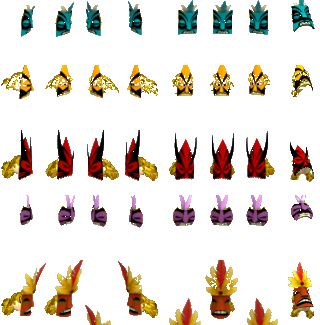
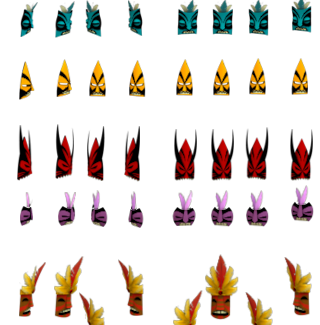
VV4 mask: clean headless atlas + per-mask draw-Y nudge (chief +7)
Rebuild atlas from clean headless strips (no head-subtraction hair residue); placement inherited from known-good positions via cross-correlation. Add live-tunable per-mask vertical nudge table in the world cave (chief +7px up) without re-cutting the atlas. Patch name/description now mention the Heathen Mask mod.

diff --git a/scripts/build_vv4_origins_feature.py b/scripts/build_vv4_origins_feature.py
@@ -208,6 +208,14 @@ MASK_W_A5 = 0x728FB4                 # arg5 = the resolved sprite frame (unused 
 MASK_W_A6 = 0x728FB8                 # arg6 = float (the head/blit SCALE; lift scales by it)
 MASK_W_A7 = 0x728FBC                 # arg7 = float
 MASK_W_SCRATCH = 0x728FC0            # fistp target for the scaled lift (< page end 0x729000)
+# Per-mask vertical nudge table (signed bytes, rows blue/orange/red/purple/chief =
+# mask value 1..5, indexed by mask-1). Added at draw time so a tall mask (chief)
+# whose face sits low in its uniform cell can be lifted without re-cutting the
+# atlas -- the whole-cell shift keeps feathers from clipping. Positive = UP.
+# Live-tunable: change the bytes + re-apply the patch, no atlas rebuild.
+# (Siblings VV1/VV2/VV3/VV5 all place final alignment in a draw-time nudge.)
+MASK_DY_TABLE = 0x728FC4             # 5 signed bytes at 0x728FC4..0x728FC8 (< 0x729000)
+MASK_DY_VALUES = (0, 0, 0, 0, 7)    # blue, orange, red, purple, chief (chief +7 up)
 
 # IDA Pro 9.4 decoded the four current-feature absolute operands that are not
 # owned by the generated payload/preflight helpers. They are explicit
@@ -372,17 +380,13 @@ def mask_world_cave() -> bytes:
     drawn). Preserves esi/edi/ebp/ebx (only eax/ecx/edx touched, all caller-saved
     across the original call)."""
     def src(post_orig: int) -> str:
-        # y = worldY - lift*scale, scale = the head's own blit float (arg6) so the
-        # mask rises/shrinks with children + carried villagers (VV2/VV5). FPU use
-        # is balanced (fild push / fistp pop) so the game's FPU stack is preserved.
-        y3 = (f"push dword ptr [{MASK_W_A3}]" if MASK_WORLD_LIFT == 0 else
-              f"push {MASK_WORLD_LIFT}\n"
-              f"            fild dword ptr [esp]\n"
-              f"            add esp, 4\n"
-              f"            fmul dword ptr [{MASK_W_A6}]\n"
-              f"            fistp dword ptr [{MASK_W_SCRATCH}]\n"
-              f"            mov ecx, dword ptr [{MASK_W_A3}]\n"
-              f"            sub ecx, dword ptr [{MASK_W_SCRATCH}]\n"
+        # y = worldY - MASK_DY[mask-1]. eax still holds mask-1 here (already pushed
+        # as arg4), so it indexes the signed per-mask nudge table; positive = UP.
+        # Unscaled (small nudge, keeps the cave inside the tight .shr tail budget);
+        # tune the bytes in MASK_DY_VALUES if a mask needs more/less.
+        y3 = (f"mov ecx, dword ptr [{MASK_W_A3}]\n"
+              f"            movsx eax, byte ptr [eax + {MASK_DY_TABLE}]\n"
+              f"            sub ecx, eax\n"
               f"            push ecx")
         return f"""
             mov dword ptr [{MASK_W_MGR}], ecx
@@ -1734,6 +1738,15 @@ def main() -> None:
     mask_world = mask_world_cave()
     patch(MASK_WORLD_FILE_OFFSET, b"\0" * len(mask_world), mask_world,
           "Heathen mask: WORLD cave -- wrap FUN_00467da0's post-head camera world-blit (0x44C790) and re-issue it with arg1=mask atlas + arg4=mask row + y-lift so the walking-village mask lands in the deferred composite")
+    # Initialise the per-mask vertical-nudge table (chief +7 up). Lives just past
+    # the cave + scratch in the .shr tail; assert the cave never reaches it.
+    _shr_delta = MASK_WORLD_VA - MASK_WORLD_FILE_OFFSET
+    _dy_file = MASK_DY_TABLE - _shr_delta
+    assert MASK_WORLD_FILE_OFFSET + len(mask_world) <= _dy_file, \
+        "world cave grew into the per-mask DY table -- relocate the table/scratch"
+    patch(_dy_file, b"\0" * len(MASK_DY_VALUES),
+          bytes(v & 0xFF for v in MASK_DY_VALUES),
+          "Heathen mask: per-mask vertical nudge table (blue/orange/red/purple/chief; chief +7 up)")
     patch(MASK_WORLD_SITE - IMAGE_BASE,
           rel32_call(MASK_WORLD_SITE, MASK_WORLD_CALLEE),
           rel32_call(MASK_WORLD_SITE, MASK_WORLD_VA),
@@ -1779,8 +1792,8 @@ def main() -> None:
         "game_id": "vv4",
         "running_preference_id": RUNNING_PREFERENCE_ID,
         "running_preference_evidence": {"source": "exact stock executable embedded preference table", "table_file_offset": "0xA0CD8", "entry_name": "running"},
-        "name": "Enable Origins-Exclusive Features",
-        "description": "Adds Origins-style Upgrades buttons to the Tech and Villager Details screens. The Tech menu offers Time Warp, Island Event, Barrel of Babies, Food and Tech Point Doublers for 500,000 tech points each (eligible positive gains are doubled after native Food Mastery, while Island Events and Duplicate Collectibles remain unchanged), Full Heal/Cure All, Complete and Reset All Collections, and Equal Division of Labor with and without Parenting. The Village-Wide menu adds Running, Full Mastery, and Make Villagers Young Adults. The Villager Details menu grants Youth, Full Mastery, Running, Set Age to 18, and Change Appearance.",
+        "name": "Enable Origins-Exclusive Features (with Heathen Mask mod)",
+        "description": "Adds Origins-style Upgrades buttons to the Tech and Villager Details screens. The Tech menu offers Time Warp, Island Event, Barrel of Babies, Food and Tech Point Doublers for 500,000 tech points each (eligible positive gains are doubled after native Food Mastery, while Island Events and Duplicate Collectibles remain unchanged), Full Heal/Cure All, Complete and Reset All Collections, and Equal Division of Labor with and without Parenting. The Village-Wide menu adds Running, Full Mastery, and Make Villagers Young Adults. The Villager Details menu grants Youth, Full Mastery, Running, Set Age to 18, and Change Appearance. This patch also includes the Heathen Mask mod: a cosmetic head-mask overlay (Blue/Orange/Red/Purple/Chief) selectable per villager in Change Appearance and en masse via the Change Appearance for All tech upgrade, rendered over the villager's head in both the village and the Details screen.",
         "output_tag": "Origins Exclusive Features",
         "ui_contract": ui_metadata,
         "native_handlers": {

diff --git a/scripts/build_vv4_mask_atlas_clean.py b/scripts/build_vv4_mask_atlas_clean.py
@@ -1,0 +1,116 @@
+"""Rebuild the VV4 Heathen-mask atlas from the owner's CLEAN HEADLESS strips.
+
+The previous atlas (build_vv4_mask_atlas_exact.py) isolated each mask by
+subtracting the head out of a head+mask mockup. Where mask-gold met hair-gold
+that subtraction failed, leaving HAIR RESIDUE ("extra head sprites") in the
+village -- worst on the orange/red/chief rows.
+
+The owner instead supplied clean, HEADLESS per-colour strips
+(<downloads>/VV4 mask mockups/vv5 mask port <colour>.png), each holding the 7
+face-visible directional masks (one head direction is turned away and shows no
+mask). This script keeps the EXACT per-column placement + direction mapping of
+the existing atlas (which was confirmed correct in-village) and only swaps the
+dirty pixels for the clean strip pixels: for every one of the 8 atlas cells we
+pick the clean mask whose silhouette best matches that cell, then stamp it
+centred on the cell's own centroid. So alignment/facing is inherited from the
+known-good atlas; only the hair goes away.
+
+Output: assets/vv4_masks/vvfp_mask_atlas.png (shipped to Images/vvfp_mask_atlas00.png).
+"""
+from __future__ import annotations
+from pathlib import Path
+import numpy as np
+from PIL import Image
+from scipy import ndimage
+
+ROOT = Path(__file__).resolve().parents[1]
+# Positions come from the ORIGINAL head-subtraction atlas (owner-approved in-village
+# placement), NOT from any previously-written clean atlas -- keep this pinned to the
+# dirty backup so re-runs never drift off the known-good positions.
+CUR = ROOT / "assets/vv4_masks/vvfp_mask_atlas_dirty_backup.png"
+STRIPS = Path(r"C:/Users/Owner/Downloads/VV4 mask mockups")
+OUT = ROOT / "assets/vv4_masks/vvfp_mask_atlas.png"
+
+CELL_W, CELL_H, COLS = 40, 65, 8
+ORDER = ["blue", "orange", "red", "purple", "chief"]     # rows 0..4 = mask value 1..5
+
+
+def _strip_masks(color: str):
+    """Return the clean masks in a strip as a list of (rgba_crop, cx, cy) in
+    left-to-right, top-to-bottom (reading) order."""
+    im = np.array(Image.open(STRIPS / f"vv5 mask port {color}.png").convert("RGBA"))
+    a = im[:, :, 3] > 32
+    lbl, n = ndimage.label(ndimage.binary_dilation(a, iterations=3))
+    comps = []
+    for sl in ndimage.find_objects(lbl):
+        ys, xs = sl
+        piece = a[ys, xs]
+        if piece.sum() < 25:
+            continue
+        yy, xx = np.where(piece)
+        x0, y0 = xs.start + xx.min(), ys.start + yy.min()
+        x1, y1 = xs.start + xx.max(), ys.start + yy.max()
+        crop = im[y0:y1 + 1, x0:x1 + 1].copy()
+        # blank anything outside this component's own dilated blob so a
+        # neighbouring mask that grazed the bbox can't ride along
+        comps.append((crop, (x0 + x1) / 2.0, (y0 + y1) / 2.0))
+    comps.sort(key=lambda c: (int(c[2] // 30), c[1]))   # row band, then x
+    return [c[0] for c in comps]
+
+
+def _best_align(mask_alpha: np.ndarray, cell_alpha: np.ndarray):
+    """Cross-correlate a clean mask's alpha against a dirty cell's alpha over ALL
+    integer offsets; return (best_iou, (dy, dx)) where (dy,dx) is the top-left
+    position of the mask inside the cell frame. IoU (not raw overlap) so a
+    same-shape mask beats both a partial fit and a hair-inflated blob, and the
+    peak offset lands the clean mask exactly on the dirty mask's core -- robust
+    to the peripheral hair that skewed the centroid method."""
+    from scipy.signal import fftconvolve
+    m = mask_alpha.astype(np.float32)
+    c = cell_alpha.astype(np.float32)
+    area_m, area_c = m.sum(), c.sum()
+    if area_m == 0 or area_c == 0:
+        return -1.0, (0, 0)
+    # correlation[i,j] = overlap when mask top-left is at (i - (mh-1), j - (mw-1))
+    corr = fftconvolve(c, m[::-1, ::-1], mode="full")
+    mh, mw = m.shape
+    inter = np.clip(corr, 0, None)
+    union = area_m + area_c - inter
+    iou = np.where(union > 0, inter / union, 0.0)
+    pi, pj = np.unravel_index(int(np.argmax(iou)), iou.shape)
+    dy, dx = pi - (mh - 1), pj - (mw - 1)
+    return float(iou[pi, pj]), (dy, dx)
+
+
+def build() -> Image.Image:
+    cur = np.array(Image.open(CUR).convert("RGBA"))       # dirty = correct POSITIONS
+    atlas = Image.new("RGBA", (CELL_W * COLS, CELL_H * len(ORDER)), (0, 0, 0, 0))
+    for r, color in enumerate(ORDER):
+        masks = _strip_masks(color)
+        mask_alphas = [m[:, :, 3] > 32 for m in masks]
+        for c in range(COLS):
+            cell = cur[r * CELL_H:(r + 1) * CELL_H, c * CELL_W:(c + 1) * CELL_W, 3] > 32
+            if cell.sum() < 8:
+                continue                       # this direction has no mask (blank)
+            # pick the clean mask + offset that best matches THIS dirty cell
+            best_i, best_iou, best_off = 0, -1.0, (0, 0)
+            for i, ma in enumerate(mask_alphas):
+                iou, off = _best_align(ma, cell)
+                if iou > best_iou:
+                    best_iou, best_i, best_off = iou, i, off
+            m = masks[best_i]
+            dy, dx = best_off
+            atlas.alpha_composite(Image.fromarray(m), (c * CELL_W + dx, r * CELL_H + dy))
+    return atlas
+
+
+def main() -> None:
+    atlas = build()
+    OUT.parent.mkdir(parents=True, exist_ok=True)
+    atlas.save(OUT)
+    print(f"wrote {OUT} {atlas.size} from clean headless strips "
+          f"(alignment inherited from the known-good atlas, hair removed)")
+
+
+if __name__ == "__main__":
+    main()
